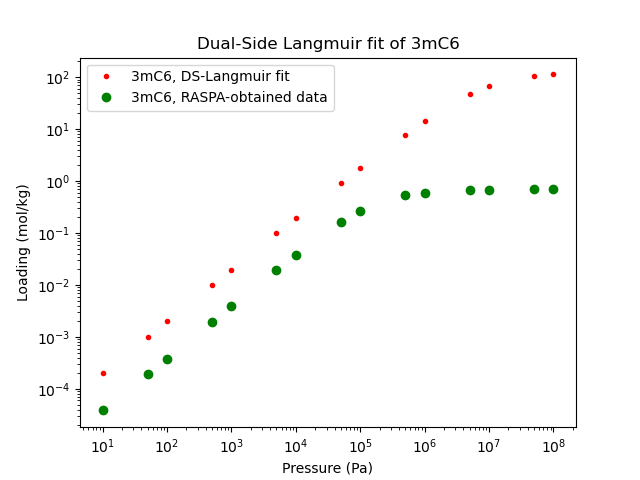
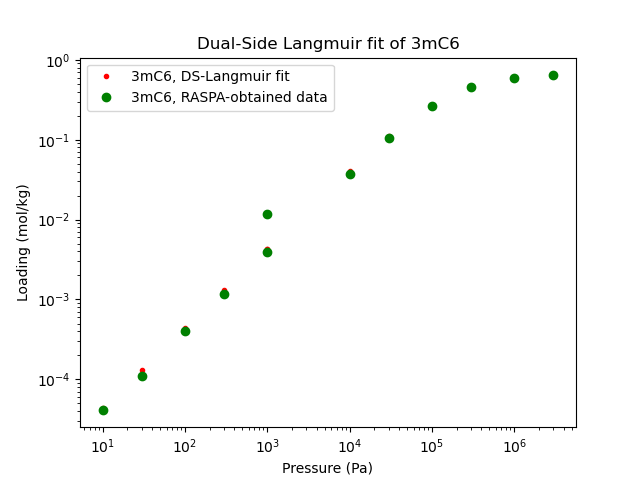
test

diff --git a/IAST-segregated/iast_wrapper/python/autosegiast.py b/IAST-segregated/iast_wrapper/python/autosegiast.py
@@ -22,12 +22,22 @@ def load_raspa(temp, path = "../../../Raspa/nieuwe_outputs"):
                 mol_csvs.append(root + "/" + names)             
     return mol_csvs, mol_names
 
+def load_raspa_new(temp, mol_names, mol_csvs, path = "../../../Raspa/ShrinjayOutputs/ConvertedShrinjay"):
+    for root, dir, files in os.walk(path):
+        for names in files:
+            if str(temp) in names:
+                mol_names.append(names.partition("-")[2])
+                mol_csvs.append(root + "/" + names)     
+    print(mol_csvs)      
+    return mol_csvs, mol_names
+
 def p0_dict(temp, path = None):
     p0_dict = {}
     if path == None:
         with open("new_p0/p0_values-%d.txt" %temp) as file:
             for line in file:
-                name, p0 = line.split("\t")
+                name, p0 = line.split("[")
+                name = name.split()[0]
                 p0 = p0.replace('[', ''); p0 = p0.replace(']', '');
                 p0_dict[name] = np.fromstring(p0, sep=" ")
     return p0_dict, list(p0_dict.keys())
@@ -76,18 +86,18 @@ def prepare_strings_testiast_dotf(no_compos, mix_combi, temp):
     mix_combi = [x.strip(" ") for x in mix_combi]
     str1 = "      write(6,*) "
     str2 = "      write(6,'(2e20.10)') "
-    str3 = """      write(25,'(A)') "  Pressure (Pa)"""
+    str3 = """      write(25,'(A)') "  Pressure (Pa) @ %dK"""%(temp)
     for i in range(0, no_compos):
         if i == (no_compos -1):
             str1 += str("'Ni(%d)   '" %(i+1))
             str2 += str("Ni(%d)" %(i+1))
             #str3 += str("""     %s-%d (mol/kg)" """ %(mix_combi[i], temp))
-            str3 += str(""" %s-%d (mol/kg)" """ %(mix_combi[i], temp))
+            str3 += str(""" %s (mol/kg)" """ %(mix_combi[i]))
         else:
             str1 += str("'Ni(%d)   '," %(i+1))
             str2 += str("Ni(%d)," %(i+1))
             #str3 += str("     %s-%d (mol/kg)" %(mix_combi[i], temp))
-            str3 += str(" %s-%d (mol/kg)" %(mix_combi[i], temp))
+            str3 += str(" %s (mol/kg)" %(mix_combi[i]))
     return str1, str2, str3
 
 def prepare_write_strings_testiast_dotf(no_compos, str1):
@@ -156,6 +166,10 @@ def try_folder_path(temp, mix_combi, path = "../../automated_output"):
             str1 += str("%s" %(mix_combi[i]))
         else:
             str1 += str("%s-" %(mix_combi[i]))
+    if os.path.exists(path) == False:
+        os.makedirs(path)
+    if os.path.exists(path + "/%d_molecules" %(no_compos)) == False:
+        os.makedirs(path + "/%d_molecules" %(no_compos))
     if os.path.exists(path + "/%d_molecules/%dK_temperature" % (no_compos, temp)) == False:
         os.makedirs(path + "/%d_molecules/%dK_temperature" % (no_compos, temp))
     if os.path.exists(path + "/%d_molecules/%dK_temperature/%s" % (no_compos, temp, str1)) == False:
@@ -206,11 +220,12 @@ def automatic_no_mols_seg_iast(temp, p0_lookup,names, max_no_mols = 5, low_no_fr
         gas_frac = get_frac_permutations(int(no_molecules), int(no_gas_fractions))
         automatic_seg_iast(temp, p0_lookup, mix_combi, gas_frac)
 def main():
-    temp = 500
+    temp = 600
     #no_molecules = 6
     #no_gas_fractions = 25
     
     p0_lookup, names = p0_dict(temp)
+    #print(names)
     automatic_no_mols_seg_iast(temp, p0_lookup, names)
     #mix_combi = get_mix_combinations(no_molecules, names)
     #gas_frac = get_frac_permutations(no_molecules, no_gas_fractions)

diff --git a/IAST-segregated/iast_wrapper/python/autolangmuir.py b/IAST-segregated/iast_wrapper/python/autolangmuir.py
@@ -14,6 +14,9 @@ import pandas as df
 
 plotpath = "../../langmuir_pure_plots/"
 def load_raspa(temp, path = "../../../Raspa/outputs"):
+    """Loads molecule names and paths from file dir
+    Note: dependent on following filename:
+    [molecule name]-[temperature]_out.txt NB "-" not optional."""
     mol_names = []
     mol_csvs = []
     for root, dir, files in os.walk(path):
@@ -25,6 +28,7 @@ def load_raspa(temp, path = "../../../Raspa/outputs"):
     return mol_names, mol_csvs
 
 def load_raspa_new(temp, mol_names, mol_csvs, path = "../../../Raspa/ShrinjayOutputs/ConvertedShrinjay"):
+    """Loads molecule names and paths from file dir"""
     for root, dir, files in os.walk(path):
         for names in files:
             if str(temp) in names:
@@ -35,17 +39,12 @@ def load_raspa_new(temp, mol_names, mol_csvs, path = "../../../Raspa/ShrinjayOut
 
 
 def return_molkg_pressure(df_iso):
+    """does exactly what it says on the tin"""
     try:
         molkg, pressure = df_iso["molkg"], df_iso["pressure"]
     except:
         molkg, pressure = df_iso["molkg"], df_iso["# pressure"]
-    try:
-        if pressure.str.contains("C").any():
-            pressure_stripped = pressure.str.rpartition("-")[2]
-            pressure_stripped.name = "pressure"
-            return molkg, pressure_stripped
-    except:
-        return molkg, pressure
+    return molkg, pressure
 
 def DSLangmuir(ab, k1, qsat1, k2, qsat2):
     k1ab, k2ab = k1 * ab, k2 * ab
@@ -60,10 +59,10 @@ def try_curvefit(DSLangmuir, pressure, molkg, p0, maxfev = 2000):
         p0 = np.array([np.nan, np.nan, np.nan, np.nan])
     return p0
 
-def iterative_DS_Langmuir(df_iso, k1_its=7, q_its=7, q1_value=0.7): 
+def iterative_DS_Langmuir(df_iso, k1_its=8, q_its=8, q1_value=0.7, maxfev = 3000): 
     "Generates various p0 starting values, then generates curvefits for all of them"
-    qlinspace = np.linspace(0.5, 4, q_its)
-    klogspace = np.logspace(2, -12, k1_its)
+    qlinspace = np.linspace(0.3, 4, q_its)
+    klogspace = np.logspace(1, -12, k1_its)
     molkg, pressure = return_molkg_pressure(df_iso)
     p0_array = np.zeros([4, k1_its * q_its * q_its])
     m = 0 #helper variable
@@ -73,7 +72,7 @@ def iterative_DS_Langmuir(df_iso, k1_its=7, q_its=7, q1_value=0.7):
         for k in range(0, k1_its):
             for l in range (0, q_its):
                 p0 = np.array([klogspace[i], q1_value, klogspace[k], qlinspace[l]])
-                p0_array[:, m] = try_curvefit(DSLangmuir, pressure, molkg, p0=p0, maxfev = 2000)
+                p0_array[:, m] = try_curvefit(DSLangmuir, pressure, molkg, p0=p0, maxfev = maxfev)
                 m = m + 1
     return(p0_array)
 

diff --git a/IAST-segregated/iast_wrapper/python/manuallangmuir.py b/IAST-segregated/iast_wrapper/python/manuallangmuir.py
@@ -1,0 +1,67 @@
+#!/usr/bin/env python3
+# -*- coding: utf-8 -*-
+
+"Use this file to fit isotherms to the DS-Langmuir equation."
+import numpy as np
+import pandas as pd 
+import matplotlib.pyplot as plt
+import scipy as sp
+import os 
+import subprocess
+import pandas as df
+import scipy.stats
+
+plotpath = "../../langmuir_pure_plots/manual_plots/"
+
+def return_molkg_pressure(df_iso):
+    try:
+        molkg, pressure = df_iso["molkg"], df_iso["pressure"]
+    except:
+        molkg, pressure = df_iso["molkg"], df_iso["# pressure"]
+    return molkg, pressure
+
+def DSLangmuir(ab, k1, qsat1, k2, qsat2):
+    k1ab, k2ab = k1 * ab, k2 * ab
+    return (qsat1 * k1ab / ( 1 + k1ab)) + (qsat2 * k2ab / (1 + k2ab))
+
+def fit_DS_langmuir(df_iso, p0, maxfev = 2000):
+    molkg, pressure = return_molkg_pressure(df_iso)
+    popt, pcov = sp.optimize.curve_fit(DSLangmuir, pressure, molkg, p0=p0, maxfev = maxfev)
+    print(popt)
+    return popt
+
+def get_isotherm(temp, name, shrinjay=True):
+    if shrinjay == True:
+        input_loc = "../../../Raspa/ShrinjayOutputs/ConvertedShrinjay/%dK-%s" %(temp, name)
+    else:
+        input_loc = "../../../Raspa/outputs/%s/%s-%dout.txt" %(name, name, temp)
+    return input_loc
+
+def save_p0_plot(mol1iso, temp, sel_data, input1,plotpath = plotpath):
+    plt.figure()
+    mol1para = return_molkg_pressure(mol1iso)
+    plt.loglog(mol1para[1], DSLangmuir(mol1para[1], sel_data[0], sel_data[1], sel_data[2], sel_data[3]), "r.", label=input1 + ", DS-Langmuir fit w/ p0 = %s" %(sel_data))
+    plt.loglog(mol1para[1], mol1para[0], "go", label = input1 + ", RASPA-obtained data")
+    plt.legend(prop={'size':6})
+    plt.title("Dual-Side Langmuir fit of %s" %input1)
+    plt.xlabel("Pressure (Pa)")
+    plt.ylabel("Loading (mol/kg)")
+    plt.savefig(plotpath + "manual_%s-%d_plot" %(input1, temp))
+    plt.show()
+    plt.close()
+
+def fit_manual(temp, name,p0, shrinjay=True, maxfev = 2000):
+    # Read file first 
+    iso = df.read_csv(get_isotherm(temp, name, shrinjay))
+    popt = fit_DS_langmuir(iso, p0, maxfev = maxfev)
+    save_p0_plot(iso, temp, popt, name)
+    return 0;
+
+def main():
+    temp = 600
+    name = "33mC5"
+    p0 = np.array([10e-6, 0.7, 10e-13, 10e0])
+    fit_manual(temp, name, p0, False, 10000)
+
+if __name__ == "__main__":
+    main()  
